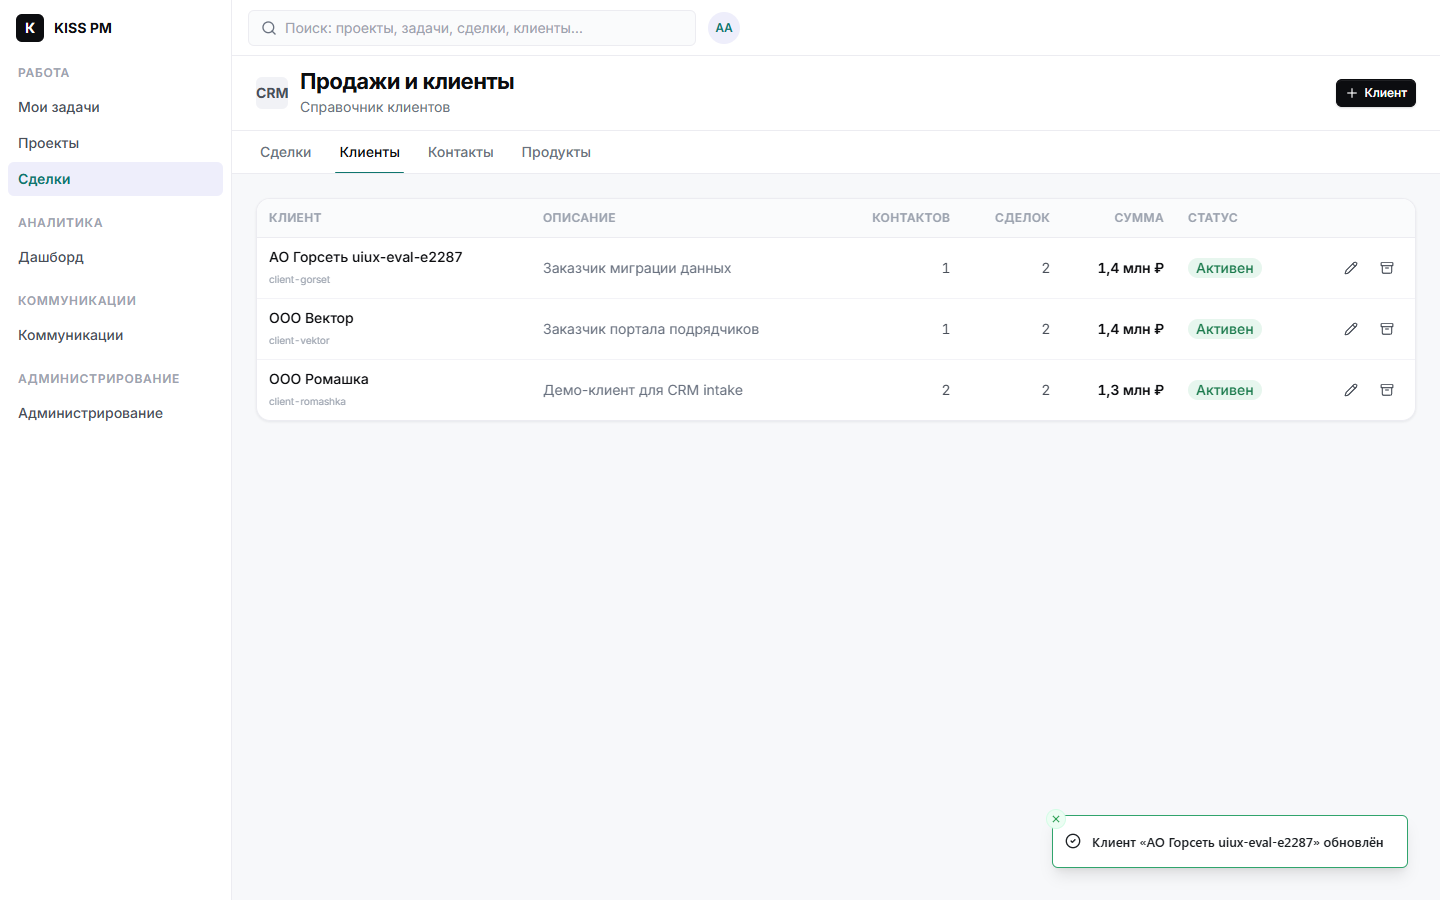
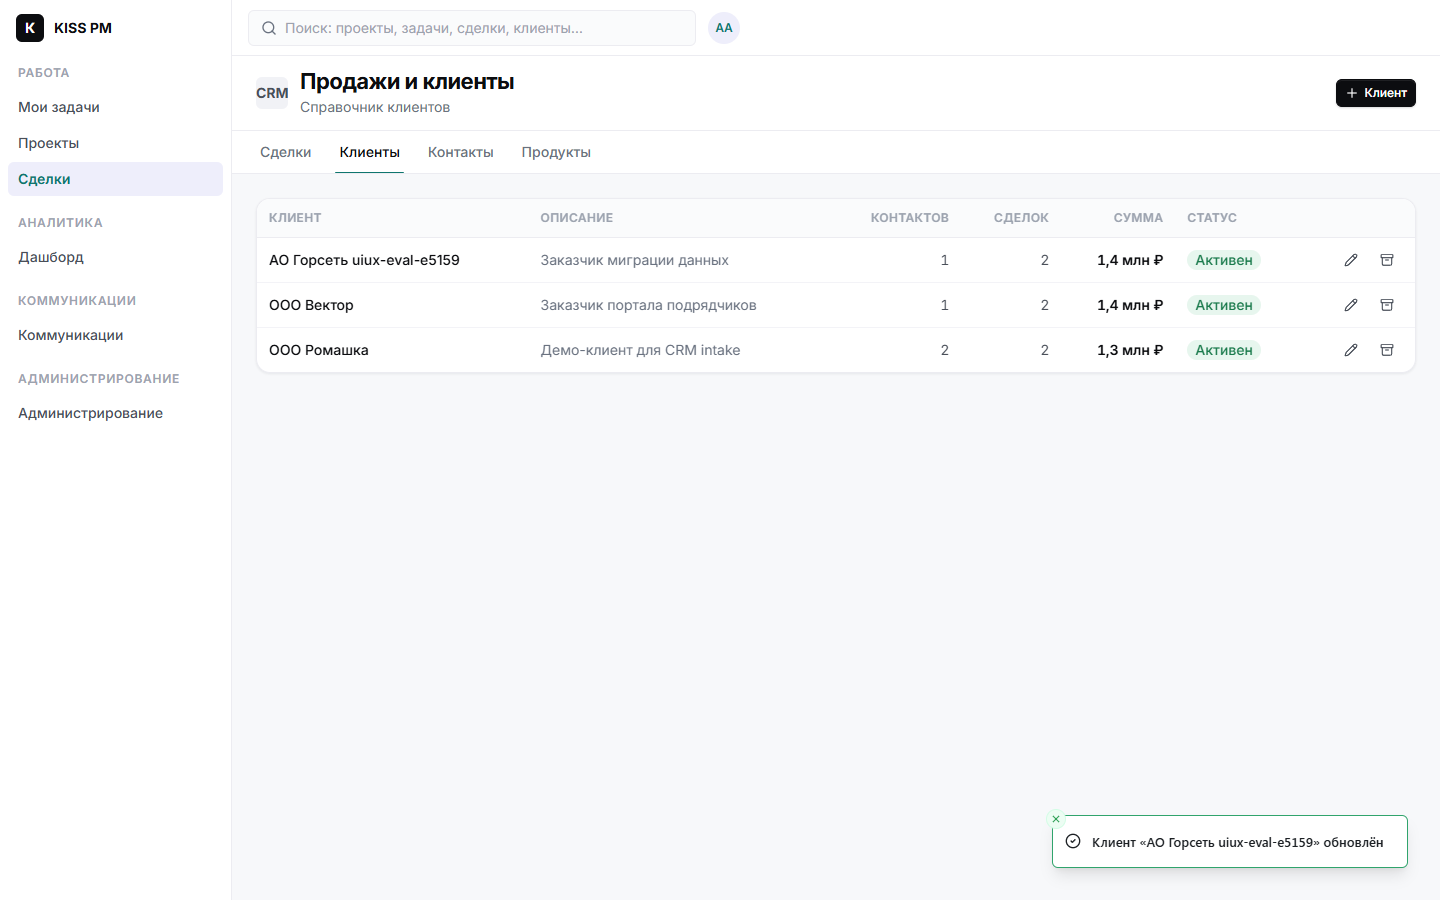
test(health): статический замок на прототип-плашки + post-mortem утечки в прод
Причина утечки dev-плашек в master: гейт prototypeNotesEnabled (BUG-014, #223)
подключался вручную — 56 файлов рендерили «Прототип», загейчено было 17,
и ни один health-тест этого не ловил. Новый prototype-gate.health.test.ts
требует prototypeNotesEnabled или mock-гейт (!live) в 25 строках над каждым
JSX-рендером плашки; первый прогон поймал пропуск в chat-surface
(PrototypeBanner без внутреннего замка) — закрыт двойным гейтом.

Проверки: vitest 911 pass / 3 fail (pre-existing agentExecute); полная E2E-
батарея p0/p1/p1c/p2/sweep — 53/53 PASS; tsc чистый.

Claude-Session: https://claude.ai/code/session_01LGgDBEpxSdEnRdDrAWZWhF

diff --git a/apps/web/src/__health__/prototype-gate.health.test.ts b/apps/web/src/__health__/prototype-gate.health.test.ts
@@ -1,0 +1,66 @@
+import { readFileSync, readdirSync, statSync } from "node:fs";
+import { dirname, join, relative } from "node:path";
+import { fileURLToPath } from "node:url";
+
+import { describe, expect, it } from "vitest";
+
+// CWD-независимо: корень apps/web от расположения теста (как design-v3-enforcement).
+const webRoot = join(dirname(fileURLToPath(import.meta.url)), "../..");
+const srcRoot = join(webRoot, "src");
+
+function tsxFiles(dir: string): string[] {
+  const out: string[] = [];
+  for (const name of readdirSync(dir)) {
+    const p = join(dir, name);
+    if (statSync(p).isDirectory()) {
+      out.push(...tsxFiles(p));
+      continue;
+    }
+    // Сторис — демо-контекст, там плашки уместны всегда.
+    if (name.endsWith(".tsx") && !name.endsWith(".stories.tsx") && !name.endsWith(".test.tsx")) out.push(p);
+  }
+  return out;
+}
+
+const rel = (f: string) => relative(srcRoot, f).replace(/\\/g, "/");
+
+// Маркеры допустимого гейта в пределах окна строк над рендером плашки:
+// prototypeNotesEnabled (флаг сборки Storybook/демо) либо mock-режим рантайма (!live / live ?).
+const GATE_MARKERS = /prototypeNotesEnabled|!live|live\s*\?/;
+const GATE_WINDOW_LINES = 25;
+
+/**
+ * Прототип-гейт (BUG-014, G5-10 из UI/UX-loop 2026-07-05): плашки «Прототип»
+ * с dev-жаргоном НЕ должны рендериться в прод-сборке. Гейт prototypeNotesEnabled
+ * существовал с pre-prod hardening, но подключался вручную и без контроля —
+ * на master 56 файлов рендерили плашку, из них загейчено было только 17.
+ * Этот тест — статический замок: каждый рендер строки «Прототип/ПРОТОТИП» в TSX
+ * обязан находиться под prototypeNotesEnabled либо mock-гейтом (!live) в пределах
+ * GATE_WINDOW_LINES строк выше. Новая плашка мимо гейта = красный тест.
+ */
+describe("prototype-gate enforcement", () => {
+  const files = tsxFiles(srcRoot);
+
+  it("каждая плашка «Прототип» в TSX стоит под prototypeNotesEnabled или mock-гейтом", () => {
+    const offenders: string[] = [];
+    for (const f of files) {
+      // Сам модуль гейта — определение, не рендер.
+      if (rel(f).includes("views/lib/")) continue;
+      const lines = readFileSync(f, "utf8").split("\n");
+      for (let i = 0; i < lines.length; i++) {
+        // Интересуют только JSX-рендеры бейджа (>Прототип< / >ПРОТОТИП…<),
+        // а не упоминания слова в комментариях или строках-подсказках.
+        if (!/>\s*(Прототип|ПРОТОТИП)/.test(lines[i]!)) continue;
+        const from = Math.max(0, i - GATE_WINDOW_LINES);
+        const window = lines.slice(from, i + 1).join("\n");
+        if (!GATE_MARKERS.test(window)) {
+          offenders.push(`${rel(f)}:${i + 1}`);
+        }
+      }
+    }
+    expect(
+      offenders,
+      `плашка «Прототип» рендерится без гейта (prototypeNotesEnabled / !live) — dev-заметки утекут в прод:\n${offenders.join("\n")}`
+    ).toEqual([]);
+  });
+});

diff --git a/apps/web/src/communications/chat/chat-surface.tsx b/apps/web/src/communications/chat/chat-surface.tsx
@@ -150,7 +150,9 @@ function ChatSurfaceScoped({ scope }: { scope: ResolvedCommsScope }) {
 }
 
 // Честный баннер «Прототип»: реальные ручки + in-memory + про realtime.
+// Двойной замок: вызов гейтится !live, сам компонент — флагом (Storybook включает его в main.ts).
 function PrototypeBanner() {
+  if (!prototypeNotesEnabled) return null;
   return (
     <div className="flex items-start gap-2 rounded-[var(--radius-md)] border border-[var(--accent-muted)] bg-[var(--accent-soft)] px-3 py-1.5 text-[length:var(--text-xs)] text-[var(--muted-strong)]">
       <span className="mt-0.5 inline-flex shrink-0 items-center rounded-full bg-[var(--accent)] px-1.5 py-0.5 text-[length:var(--text-2xs)] font-semibold uppercase tracking-[0.04em] text-white">Прототип</span>

diff --git a/docs/qa/full-eval/uiux-loop-2026-07-05/report.md b/docs/qa/full-eval/uiux-loop-2026-07-05/report.md
@@ -110,6 +110,12 @@ P2 (гигиена, 4 агента по доменам без пересечен
 
 Верификация: `fix-verify-p2` 10/10 PASS, повторные `fix-verify-p0-123` 8/8 и `fix-verify-p1` 10/10, sweep 17/17, tsc чистый, vitest 909 pass (+4 pre-existing).
 
+## Почему прототип-плашки вообще дожили до master (post-mortem, 2026-07-06)
+
+Гейт `prototypeNotesEnabled` существовал с pre-prod hardening (#223, BUG-014), но подключался **вручную и без контроля**: на master `ab90acc9` плашку «Прототип» рендерили 56 файлов, а гейт использовали только 17. Ни один автомат (design-v3 health ловит только hex/rgba) не падал на негейченной плашке — поэтому каждая новая/пропущенная поверхность спокойно доезжала до прода.
+
+**Системный фикс**: добавлен `apps/web/src/__health__/prototype-gate.health.test.ts` — статический замок: любой JSX-рендер «Прототип/ПРОТОТИП» обязан стоять под `prototypeNotesEnabled` или mock-гейтом (`!live`) в пределах 25 строк, иначе тест красный. Первый же прогон поймал реальный пропуск (определение `PrototypeBanner` в chat-surface без внутреннего замка) — исправлен.
+
 ## Комплаенс-примечания (AGENTS.md §8/§9)
 
 - **CodeGraph**: код продукта в этом прогоне **не менялся** — артефакты только в `docs/qa/**` (markdown, json, png, evidence-скрипты `.mjs`). Структурные вопросы к коду решались grep/read-фолбэком внутри агентов (дисклоуз в blockers групп); `codegraph_*` для live-QA стенда не применялся.